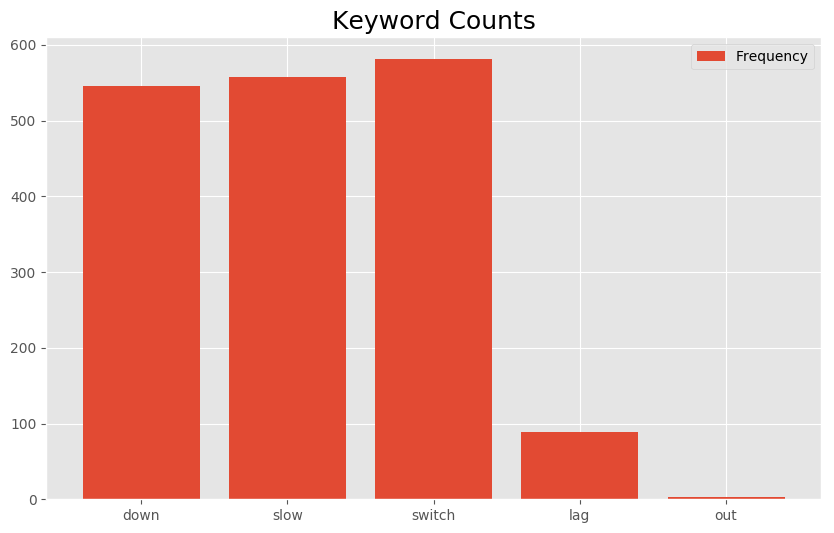
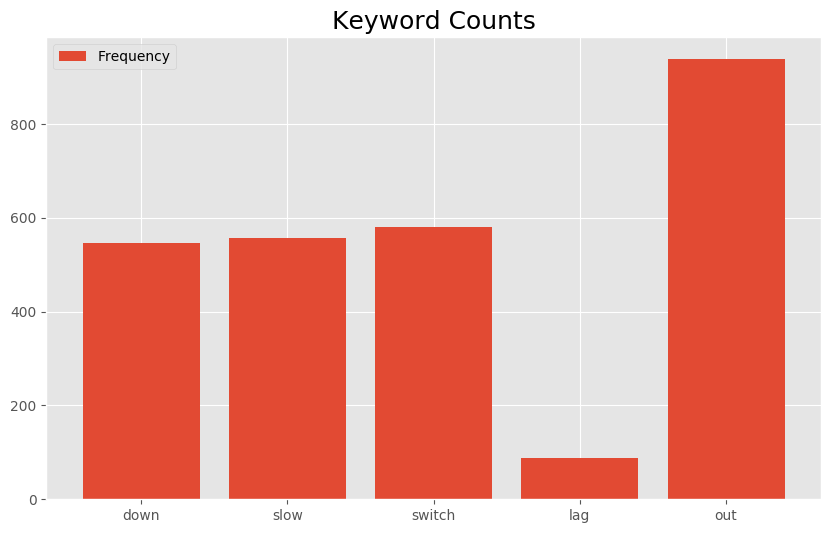
fixed out counts

diff --git a/WordFrequency.py b/WordFrequency.py
@@ -125,9 +125,10 @@ def get_keyword_counts(df):
     for keyword in keywords:
         match_dict[keyword] = 0
         for aword, word_freq in zip(word_count.keys(), word_count.values()):
-            if keyword == "out":
-                match_dict[keyword] = word_freq
-            elif keyword in aword:
+            if (keyword == "out" and aword == "out") or (keyword == "out" and aword == "outage"):
+                print(word_freq)
+                match_dict[keyword] += word_freq
+            elif keyword != "out" and keyword in aword:
                 match_dict[keyword] += word_freq
 
     final = pd.DataFrame(match_dict.values(), index=match_dict.keys(), columns=['Frequency'])
